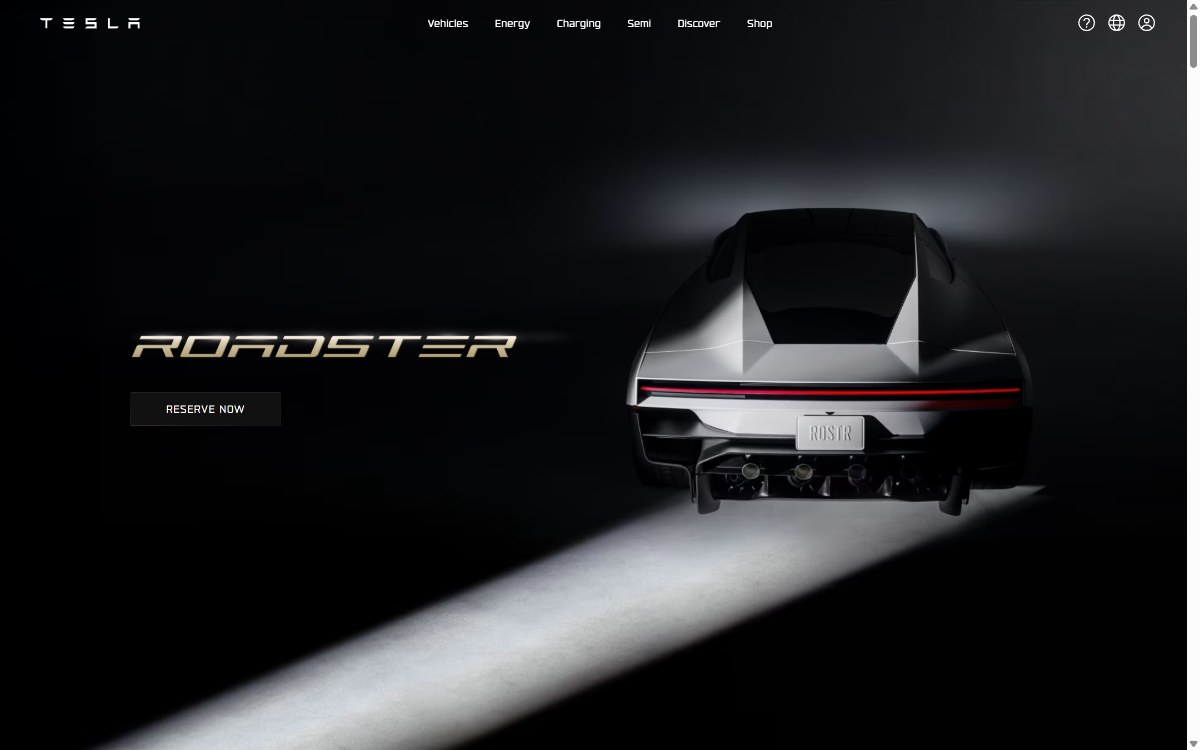
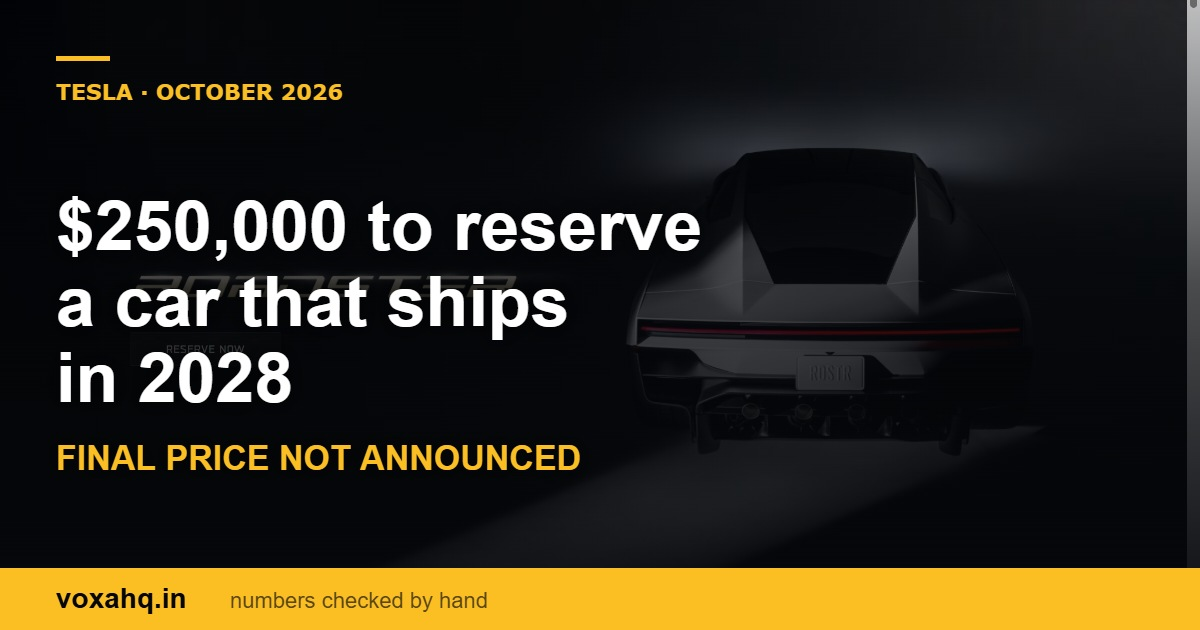
News: longer posts and designed cover images

diff --git a/news/microsoft-transcription-price-cut.html b/news/microsoft-transcription-price-cut.html
@@ -1,96 +1,90 @@
 <!DOCTYPE html>
-<html lang="en">
-<head>
+<html lang="en"><head>
 <meta charset="utf-8">
-<meta name="p:domain_verify" content="2326c45e695d1e2779fd2dcb5c547ad3"/>
-<style>html{background:#08090a}body{background:#08090a;color:#f4f4f1;margin:0;font-family:system-ui,-apple-system,'Segoe UI',Roboto,Arial,sans-serif}.loader,.grain,.cursor-dot,.cursor-ring{display:none!important}.page{opacity:1!important}</style>
 <meta name="viewport" content="width=device-width,initial-scale=1">
+<meta name="p:domain_verify" content="2326c45e695d1e2779fd2dcb5c547ad3"/>
 <meta name="google-site-verification" content="iqkJi4R8vUH9mXFH8NmXFpLjehdxMaZZ2Iw6jM2A83Y" />
-<link rel="icon" type="image/svg+xml" href="/favicon.svg">
-<link rel="alternate icon" href="/favicon-32.png">
-<title>Microsoft cut cloud transcription to 10 cents an hour: the catch</title>
-<meta name="description" content="Microsoft prices batch transcription at $0.10 per audio hour and streaming at $0.54 until 31 December 2026. Both are introductory, and streaming costs 5.4 times the batch rate.">
+<title>Microsoft Cut Cloud Transcription to 10 Cents an Hour: The Catch</title>
+<meta name="description" content="Microsoft prices batch transcription at $0.10 per audio hour and streaming at $0.54 until 31 December 2026. Both are introductory, streaming costs 5.4 times the batch rate, and neither has a published replacement price.">
 <link rel="canonical" href="https://voxahq.in/news/microsoft-transcription-price-cut">
 <meta name="robots" content="index, follow, max-image-preview:large, max-snippet:-1">
-<meta name="keywords" content="microsoft transcription pricing, mai-transcribe-2 price, speech to text cost per hour">
-<meta name="author" content="VOXA">
-<meta name="twitter:card" content="summary_large_image">
-<meta name="twitter:image" content="https://voxahq.in/images/news/microsoft-transcribe.jpg">
-<meta property="og:title" content="Microsoft cut cloud transcription to 10 cents an hour: the catch">
-<meta property="og:description" content="Microsoft prices batch transcription at $0.10 per audio hour and streaming at $0.54 until 31 December 2026. Both are introductory, and streaming costs 5.4 times the batch rate.">
+<meta name="keywords" content="microsoft transcription pricing, mai-transcribe-2 price, speech to text cost per hour, cheapest transcription api">
+<meta property="og:title" content="Microsoft Cut Cloud Transcription to 10 Cents an Hour: The Catch">
+<meta property="og:description" content="Microsoft prices batch transcription at $0.10 per audio hour and streaming at $0.54 until 31 December 2026. Both are introductory, streaming costs 5.4 times the batch rate, and neither has a published replacement price.">
 <meta property="og:url" content="https://voxahq.in/news/microsoft-transcription-price-cut">
-<meta property="og:site_name" content="VOXA">
 <meta property="og:type" content="article">
 <meta property="og:image" content="https://voxahq.in/images/news/microsoft-transcribe.jpg">
-<meta property="og:image:width" content="1200">
-<meta property="og:image:height" content="630">
+<meta name="twitter:card" content="summary_large_image">
+<link rel="icon" type="image/svg+xml" href="/favicon.svg">
 <link rel="stylesheet" href="/css/style.css?v=20261020">
-<script type="application/ld+json">{"@context":"https://schema.org","@type":"NewsArticle","headline":"Microsoft cut cloud transcription to 10 cents an hour: the catch","description":"Microsoft prices batch transcription at $0.10 per audio hour and streaming at $0.54 until 31 December 2026. Both are introductory, and streaming costs 5.4 times the batch rate.","datePublished":"2026-10-20","dateModified":"2026-10-20","author":{"@type":"Organization","name":"VOXA"},"publisher":{"@type":"Organization","name":"VOXA"},"mainEntityOfPage":"https://voxahq.in/news/microsoft-transcription-price-cut","image":"https://voxahq.in/images/news/microsoft-transcribe.jpg"}</script>
-</head>
-<body class="loading" data-scene="wave">
-<canvas id="gl" aria-hidden="true"></canvas><div class="veil" aria-hidden="true"></div><div class="grain" aria-hidden="true"></div><div class="progress" id="progress" aria-hidden="true"></div>
+<script type="application/ld+json">{"@context":"https://schema.org","@type":"NewsArticle","headline":"Microsoft cut cloud transcription to 10 cents an hour, and the catch is in the small print","description":"Microsoft prices batch transcription at $0.10 per audio hour and streaming at $0.54 until 31 December 2026. Both are introductory, streaming costs 5.4 times the batch rate, and neither has a published replacement price.","datePublished":"2026-10-20","dateModified":"2026-10-20","author":{"@type":"Organization","name":"VOXA"},"publisher":{"@type":"Organization","name":"VOXA"},"mainEntityOfPage":"https://voxahq.in/news/microsoft-transcription-price-cut","image":"https://voxahq.in/images/news/microsoft-transcribe.jpg"}</script>
+<script type="application/ld+json">{"@context":"https://schema.org","@type":"FAQPage","mainEntity":[{"@type":"Question","name":"How much does Microsoft transcription cost?","acceptedAnswer":{"@type":"Answer","text":"Batch transcription (MAI-Transcribe-2) is $0.10 per audio hour and streaming (MAI-Transcribe-2-Streaming) is $0.54, both introductory through 31 December 2026."}},{"@type":"Question","name":"Is Microsoft the cheapest transcription API?","acceptedAnswer":{"@type":"Answer","text":"No. xAI lists streaming at $0.20 per hour and Meta at $0.18. Local Whisper costs nothing per hour."}},{"@type":"Question","name":"What happens after 31 December 2026?","acceptedAnswer":{"@type":"Answer","text":"Microsoft has not published a standard rate, so both figures should be treated as provisional."}}]}</script>
+</head><body class="loading" data-scene="wave">
+<canvas id="gl" aria-hidden="true"></canvas><div class="veil" aria-hidden="true"></div><div class="grain" aria-hidden="true"></div>
 <header class="nav" id="nav">
-  <a class="brand" href="/" data-cursor><svg class="mark" viewBox="0 0 48 48" role="img" aria-label="VOXA"><rect x="1" y="1" width="46" height="46" rx="12" fill="#0b0f10" stroke="#1e2c30"/><path d="M14 15 L24 34" fill="none" stroke="#22d3ee" stroke-width="4.6" stroke-linecap="round"/><path d="M24 34 L34 15" fill="none" stroke="#c8f751" stroke-width="4.6" stroke-linecap="round"/><circle cx="14" cy="15" r="3.2" fill="#22d3ee"/><circle cx="34" cy="15" r="3.2" fill="#c8f751"/></svg>VOXA</a>
-  <nav class="nav__links" id="navLinks">
-    <a href="/">Home</a><a href="/guides">Guides</a><a href="/notes">Notes</a><a href="/news">News</a><a href="/about">About Us</a><a href="/contact">Contact Us</a>
-  </nav>
-  <a class="btn" href="/contact" data-magnet><span data-cursor>Contact</span></a>
-  <button class="burger" id="burger" aria-label="Menu"><i></i><i></i></button>
+  <a class="brand" href="/">VOXA</a>
+  <nav class="nav__links" id="navLinks"><a href="/">Home</a><a href="/guides">Guides</a><a href="/notes">Notes</a><a href="/news">News</a><a href="/about">About Us</a><a href="/contact">Contact Us</a></nav>
+  <a class="btn" href="/contact"><span>Contact</span></a>
 </header>
-<div class="page">
-<main>
-  <section class="page-head wrap">
-    <span class="mono">News / AI costs</span>
-    <h1>Microsoft cut cloud transcription to 10 cents an hour, and the catch is in the small print</h1>
+<div class="page"><main>
+  <section class="page-head wrap"><span class="mono">News / AI costs</span><h1>Microsoft cut cloud transcription to 10 cents an hour, and the catch is in the small print</h1>
     <div class="crumbs mono"><a href="/">Home</a><span>/</span><a href="/news">News</a><span>/</span><span>Microsoft transcription pricing</span></div>
   </section>
-  <section class="wrap" style="padding-top:0">
-    <div class="panel">
-      <p class="byline mono">By the VOXA team &middot; prices from Microsoft’s own model pages</p>
-      <p class="meta-line mono"><span>October 20, 2026</span><span>2 min read</span><span>Numbers checked by hand</span></p>
-      <div class="quick">
-        <h2>The short version</h2>
-        <p>Microsoft’s batch transcription model runs at $0.10 per hour of audio until 31 December. The streaming version is $0.54 per hour, or 5.4 times the batch rate, for half a point of accuracy. Both are introductory prices with no announced successor.</p>
-        <div class="row"><div><span class="big">$0.10</span><span class="lbl">Batch, per audio hour</span></div><div><span class="big">$0.54</span><span class="lbl">Streaming, per audio hour</span></div><div><span class="big">5.4x</span><span class="lbl">Streaming premium</span></div></div>
-      </div>
-      <figure class="guide-figure">
-        <img src="/images/news/microsoft-transcribe.jpg" alt="Microsoft AI announcement page for MAI-Transcribe-2-Streaming, October 2026" width="1200" height="675" loading="eager" decoding="async">
-        <figcaption class="mono">Microsoft’s announcement page, captured 20 October 2026.</figcaption>
-      </figure>
+  <section class="wrap" style="padding-top:0"><div class="panel">
+    <p class="byline mono">By the VOXA team &middot; prices from Microsoft’s own model pages</p>
+    <p class="meta-line mono"><span>20 October 2026</span><span>6 min read</span><span>Numbers checked by hand</span></p>
+    <div class="quick"><h2>The short version</h2><p>Microsoft now sells two versions of the same speech model. Batch transcription costs $0.10 per hour of audio. The streaming version costs $0.54, which is 5.4 times more for half a point of worse accuracy. Both prices are introductory and expire on 31 December 2026.</p>
+      <div class="row"><div><span class="big">$0.10</span><span class="lbl">Batch, per audio hour</span></div><div><span class="big">$0.54</span><span class="lbl">Streaming, per audio hour</span></div><div><span class="big">5.4x</span><span class="lbl">Streaming premium</span></div></div></div>
+    <figure class="guide-figure"><img src="/images/news/microsoft-transcribe.jpg" alt="Microsoft MAI-Transcribe-2-Streaming announcement, October 2026" width="1200" height="630" loading="eager" decoding="async">
+      <figcaption class="mono">Microsoft shipped both models on 1 October 2026. Source: microsoft.ai.</figcaption></figure>
+    <h2>What Microsoft changed</h2>
+    <p>On 1 October 2026, Microsoft AI released two speech-to-text models that share the same architecture but not the same bill. MAI-Transcribe-2 processes a finished audio file and returns a transcript. MAI-Transcribe-2-Streaming listens to live audio and returns partial text while the person is still talking.</p>
+    <p>The batch model scores 2.0% word error rate. The streaming model claims 2.5% and finalises each utterance about 0.13 seconds after the speaker stops. Both cover 60 languages with automatic language detection.</p>
 
-      <h2>What changed</h2>
-      <p>Microsoft shipped two versions of the same speech model. The batch version, MAI-Transcribe-2, costs $0.10 per hour of audio at a 2.0% word error rate. The streaming version, MAI-Transcribe-2-Streaming, costs $0.54 per hour at a claimed 2.5% error rate and finalises a transcript about 0.13 seconds after speech ends.</p>
-      <table>
-        <thead><tr><th>Model</th><th>Price</th><th>What you get</th></tr></thead>
-        <tbody>
-          <tr><td>MAI-Transcribe-2 (batch)</td><td><span class="price">$0.10<small>per audio hour</small></span></td><td>2.0% WER, file in, transcript out</td></tr>
-          <tr><td>MAI-Transcribe-2-Streaming</td><td><span class="price">$0.54<small>per audio hour</small></span></td><td>2.5% WER, live partial transcripts</td></tr>
-          <tr><td>MAI-Voice-2.1</td><td><span class="price">$22<small>per 1M characters</small></span></td><td>Text to speech, 23 languages</td></tr>
-          <tr><td>MAI-Voice-2.1-Flash</td><td><span class="price">$15<small>per 1M characters</small></span></td><td>Faster, cheaper TTS tier</td></tr>
-        </tbody>
-      </table>
+    <h2>The numbers</h2>
+    <table><thead><tr><th>Model</th><th>Price</th><th>What you get</th></tr></thead><tbody>
+    <tr><td>MAI-Transcribe-2 (batch)</td><td><span class="price">$0.10<small>per audio hour</small></span></td><td>2.0% WER, file in, transcript out</td></tr>
+    <tr><td>MAI-Transcribe-2-Streaming</td><td><span class="price">$0.54<small>per audio hour</small></span></td><td>2.5% WER, live partial results</td></tr>
+    <tr><td>MAI-Voice-2.1</td><td><span class="price">$22<small>per 1M characters</small></span></td><td>Text to speech, 23 languages</td></tr>
+    <tr><td>MAI-Voice-2.1-Flash</td><td><span class="price">$15<small>per 1M characters</small></span></td><td>Lower latency, volume tier</td></tr>
+    </tbody></table>
+    <p>At $0.10 an hour, a thousand hours of audio costs $100. At $0.54, the same thousand hours costs $540, for the same words with slightly more errors. The only thing the premium buys is time: the transcript arrives while the call is happening, not after.</p>
 
-      <h2>The catch nobody prints</h2>
-      <p>Three things, all in the small print. First, both rates are introductory and run out on 31 December 2026, with no replacement price published. Second, streaming costs 5.4 times the batch rate for slightly worse accuracy, which is the opposite of how volume pricing usually works. Third, this is a public preview with no service level agreement.</p>
-      <p>It is also not the cheapest option on the market. xAI lists streaming transcription at $0.20 an hour and Meta at $0.18, so Microsoft is competing on accuracy and language coverage rather than on price.</p>
+    <h2>How it compares</h2>
+    <table><thead><tr><th>Option</th><th>Price per audio hour</th><th>Notes</th></tr></thead><tbody>
+    <tr><td>MAI-Transcribe-2 (batch)</td><td><span class="price">$0.10<small>introductory</small></span></td><td>Ends 31 Dec 2026</td></tr>
+    <tr><td>MAI-Transcribe-2-Streaming</td><td><span class="price">$0.54<small>introductory</small></span></td><td>Ends 31 Dec 2026</td></tr>
+    <tr><td>Meta streaming</td><td><span class="price">$0.18<small>per hour</small></span></td><td>Cheaper, lower accuracy tier</td></tr>
+    <tr><td>xAI streaming</td><td><span class="price">$0.20<small>per hour</small></span></td><td>Cheaper, lower accuracy tier</td></tr>
+    <tr><td>Local Whisper</td><td><span class="price">$0<small>per hour</small></span></td><td>You pay in hardware and time</td></tr>
+    </tbody></table>
+    <p>Microsoft is not the cheapest, despite the headline. It is the most accurate on the streaming leaderboard, and that accuracy is what you are buying at $0.54.</p>
 
-      <h2>What it means if you already transcribe</h2>
-      <p>If you were paying around $12 an hour for cloud transcription, this is a genuine 20 to 100 times cut, and it makes the paid tier competitive with running Whisper on your own machine. If you only transcribe a few hours a month, local is still cheaper: it costs nothing per hour and you already own the computer. Our full comparison is in <a href="/guides/local-whisper-vs-cloud-transcription">local Whisper vs cloud transcription</a>.</p>
+    <h2>Three catches</h2>
+    <p><strong>One.</strong> Both rates are introductory and end on 31 December 2026. No replacement price has been published, so any budget built on $0.10 has a hole in it after January.</p>
+    <p><strong>Two.</strong> Streaming costs 5.4 times the batch rate. That is the opposite of how volume pricing usually works, and it means the decision is about latency, not about cost per minute.</p>
+    <p><strong>Three.</strong> This is a public preview with no service level agreement. For a call centre routing live calls, an SLA is not optional.</p>
 
-      <h2>Source</h2>
-      <p>Microsoft AI model pages and announcement posts (microsoft.ai), read 20 October 2026. Competitor streaming prices from the Artificial Analysis comparison published 2 October 2026.</p>
-      <p><a href="/guides/local-whisper-vs-cloud-transcription">Read next: the real cost per hour of transcription</a></p>
-    </div>
-  </section>
+    <h2>What to do if you already transcribe</h2>
+    <p>If you pay a per-minute vendor, run the maths on your last month. A team processing 200 hours a month was likely paying between $1,200 and $2,400 at older rates. On batch pricing that becomes $20. The saving is real, and it is large enough to justify a migration test.</p>
+    <p>If you process a few hours a month, nothing changes. Local Whisper is still free per hour, and the setup cost is a laptop you already own. The full comparison, including the time cost, is in our guide to <a href="/guides/local-whisper-vs-cloud-transcription">local Whisper versus cloud transcription</a>.</p>
+    <p>If you need live text during a call, the question is not price. It is whether a 2.5% error rate is acceptable for what happens downstream: routing, summarising, or writing to a customer record.</p>
+
+    <h2>Questions people ask</h2>
+    <h3>Is $0.10 per hour permanent?</h3>
+    <p>No. Microsoft lists it as a limited-time price through 31 December 2026, with no standard rate published yet.</p>
+    <h3>Why is streaming more expensive?</h3>
+    <p>Streaming holds a connection open and returns partial results continuously, which uses more compute per minute of audio than processing a finished file once.</p>
+    <h3>Should I switch from Whisper?</h3>
+    <p>Only if you need speed or managed infrastructure. For batch work on a machine you own, local Whisper still costs nothing per hour.</p>
+    <h2>Sources</h2><p>Microsoft AI model pages and announcement posts (microsoft.ai, 1 October 2026); Azure Speech pricing page (read 20 October 2026); Artificial Analysis streaming comparison published 2 October 2026.</p>
+    <p class="mono" style="color:var(--muted)">Read from the primary source on 20 October 2026. Prices and terms change, so check before you commit.</p>
+    <p><a href="/guides/local-whisper-vs-cloud-transcription">Read next: the real cost per hour of transcription</a></p>
+  </div></section>
 </main>
 <footer><div class="wrap"><div class="foot">
-      <div><a class="brand" href="/">VOXA</a><p style="color:var(--muted);max-width:34ch;margin-top:14px">An independent, plainly written guide to AI tools and automation software. No affiliate links, no sponsored rankings.</p></div>
-      <div><h5 class="mono">Pages</h5><ul><li><a href="/">Home</a></li><li><a href="/guides">Guides</a></li><li><a href="/notes">Notes</a></li><li><a href="/news">News</a></li><li><a href="/about">About Us</a></li><li><a href="/contact">Contact Us</a></li></ul></div>
-      <div><h5 class="mono">Legal</h5><ul><li><a href="/privacy-policy">Privacy Policy</a></li><li><a href="/terms">Terms &amp; Conditions</a></li><li><a href="/disclaimer">Disclaimer</a></li><li><a href="/cookie-policy">Cookie Policy</a></li><li><a href="/how-we-test">How we check</a></li><li><a href="/editorial-policy">Editorial policy</a></li></ul></div>
-      <div><h5 class="mono">Contact</h5><ul><li><a href="mailto:voxa.hq1@gmail.com">voxa.hq1@gmail.com</a></li><li><a href="/contact">Contact form</a></li></ul></div>
-    </div><div class="foot__bottom mono"><span>&copy; <span id="year">2026</span> VOXA</span><span id="clock">--:--:--</span><span>Independent guide &middot; no sponsored rankings</span></div></div></footer>
-</div>
-<script src="/js/main.js"></script>
-<script src="/js/lazy3d.js" data-scene-src="/js/scene.js"></script>
-</body>
-</html>
+  <div><a class="brand" href="/">VOXA</a><p style="color:var(--muted);max-width:34ch;margin-top:14px">Independent AI tools and automation notes. Real prices, checked by hand. No affiliate links.</p></div>
+  <div><h5 class="mono">Pages</h5><ul><li><a href="/">Home</a></li><li><a href="/guides">Guides</a></li><li><a href="/notes">Notes</a></li><li><a href="/news">News</a></li><li><a href="/contact">Contact Us</a></li></ul></div>
+  <div><h5 class="mono">Legal</h5><ul><li><a href="/privacy-policy">Privacy Policy</a></li><li><a href="/terms">Terms</a></li><li><a href="/disclaimer">Disclaimer</a></li></ul></div>
+  <div><h5 class="mono">Contact</h5><ul><li><a href="mailto:voxa.hq1@gmail.com">voxa.hq1@gmail.com</a></li></ul></div>
+</div></div></footer></div></body></html>

diff --git a/news/tesla-roadster-250000-reservation.html b/news/tesla-roadster-250000-reservation.html
@@ -1,94 +1,84 @@
 <!DOCTYPE html>
-<html lang="en">
-<head>
+<html lang="en"><head>
 <meta charset="utf-8">
-<meta name="p:domain_verify" content="2326c45e695d1e2779fd2dcb5c547ad3"/>
-<style>html{background:#08090a}body{background:#08090a;color:#f4f4f1;margin:0;font-family:system-ui,-apple-system,'Segoe UI',Roboto,Arial,sans-serif}.loader,.grain,.cursor-dot,.cursor-ring{display:none!important}.page{opacity:1!important}</style>
 <meta name="viewport" content="width=device-width,initial-scale=1">
+<meta name="p:domain_verify" content="2326c45e695d1e2779fd2dcb5c547ad3"/>
 <meta name="google-site-verification" content="iqkJi4R8vUH9mXFH8NmXFpLjehdxMaZZ2Iw6jM2A83Y" />
-<link rel="icon" type="image/svg+xml" href="/favicon.svg">
-<link rel="alternate icon" href="/favicon-32.png">
-<title>Tesla's Roadster takes $250,000 to reserve, and still has no price</title>
-<meta name="description" content="Tesla unveiled the Roadster on 15 October. A Performance trim reserves for $50,000 and Thrust for $250,000, but the final price has not been published and production starts in 2028.">
+<title>Tesla's Roadster Takes $250,000 to Reserve, and Still Has No Price</title>
+<meta name="description" content="Tesla unveiled the Roadster on 15 October 2026. Performance reserves for $50,000 and Thrust for $250,000, paid in two stages, but the final price is unpublished and production starts in 2028.">
 <link rel="canonical" href="https://voxahq.in/news/tesla-roadster-250000-reservation">
 <meta name="robots" content="index, follow, max-image-preview:large, max-snippet:-1">
-<meta name="keywords" content="tesla roadster price, tesla roadster reservation, roadster 2028, tesla deposit">
-<meta name="author" content="VOXA">
-<meta name="twitter:card" content="summary_large_image">
-<meta name="twitter:image" content="https://voxahq.in/images/news/tesla-elon.jpg">
-<meta property="og:title" content="Tesla's Roadster takes $250,000 to reserve, and still has no price">
-<meta property="og:description" content="Tesla unveiled the Roadster on 15 October. A Performance trim reserves for $50,000 and Thrust for $250,000, but the final price has not been published and production starts in 2028.">
+<meta name="keywords" content="tesla roadster price, tesla roadster reservation, roadster 2028, tesla deposit refundable">
+<meta property="og:title" content="Tesla's Roadster Takes $250,000 to Reserve, and Still Has No Price">
+<meta property="og:description" content="Tesla unveiled the Roadster on 15 October 2026. Performance reserves for $50,000 and Thrust for $250,000, paid in two stages, but the final price is unpublished and production starts in 2028.">
 <meta property="og:url" content="https://voxahq.in/news/tesla-roadster-250000-reservation">
-<meta property="og:site_name" content="VOXA">
 <meta property="og:type" content="article">
-<meta property="og:image" content="https://voxahq.in/images/news/tesla-elon.jpg">
-<meta property="og:image:width" content="1200">
-<meta property="og:image:height" content="630">
+<meta property="og:image" content="https://voxahq.in/images/news/tesla-car.jpg">
+<meta name="twitter:card" content="summary_large_image">
+<link rel="icon" type="image/svg+xml" href="/favicon.svg">
 <link rel="stylesheet" href="/css/style.css?v=20261020">
-<script type="application/ld+json">{"@context":"https://schema.org","@type":"NewsArticle","headline":"Tesla's Roadster takes $250,000 to reserve, and still has no price","description":"Tesla unveiled the Roadster on 15 October. A Performance trim reserves for $50,000 and Thrust for $250,000, but the final price has not been published and production starts in 2028.","datePublished":"2026-10-20","dateModified":"2026-10-20","author":{"@type":"Organization","name":"VOXA"},"publisher":{"@type":"Organization","name":"VOXA"},"mainEntityOfPage":"https://voxahq.in/news/tesla-roadster-250000-reservation","image":"https://voxahq.in/images/news/tesla-elon.jpg"}</script>
-</head>
-<body class="loading" data-scene="wave">
-<canvas id="gl" aria-hidden="true"></canvas><div class="veil" aria-hidden="true"></div><div class="grain" aria-hidden="true"></div><div class="progress" id="progress" aria-hidden="true"></div>
+<script type="application/ld+json">{"@context":"https://schema.org","@type":"NewsArticle","headline":"$250,000 to reserve a car that ships in 2028, and nobody has announced the price","description":"Tesla unveiled the Roadster on 15 October 2026. Performance reserves for $50,000 and Thrust for $250,000, paid in two stages, but the final price is unpublished and production starts in 2028.","datePublished":"2026-10-20","dateModified":"2026-10-20","author":{"@type":"Organization","name":"VOXA"},"publisher":{"@type":"Organization","name":"VOXA"},"mainEntityOfPage":"https://voxahq.in/news/tesla-roadster-250000-reservation","image":"https://voxahq.in/images/news/tesla-car.jpg"}</script>
+<script type="application/ld+json">{"@context":"https://schema.org","@type":"FAQPage","mainEntity":[{"@type":"Question","name":"Is the Tesla Roadster deposit refundable?","acceptedAnswer":{"@type":"Answer","text":"The first $5,000 is fully refundable. The remaining balance is due within 10 days and the reservation can be cancelled if it is not paid."}},{"@type":"Question","name":"How much will the Tesla Roadster cost?","acceptedAnswer":{"@type":"Answer","text":"Tesla has not published a price. Analysts expect more than $250,000."}},{"@type":"Question","name":"When does the Tesla Roadster go into production?","acceptedAnswer":{"@type":"Answer","text":"Tesla says 2028."}}]}</script>
+</head><body class="loading" data-scene="wave">
+<canvas id="gl" aria-hidden="true"></canvas><div class="veil" aria-hidden="true"></div><div class="grain" aria-hidden="true"></div>
 <header class="nav" id="nav">
-  <a class="brand" href="/" data-cursor><svg class="mark" viewBox="0 0 48 48" role="img" aria-label="VOXA"><rect x="1" y="1" width="46" height="46" rx="12" fill="#0b0f10" stroke="#1e2c30"/><path d="M14 15 L24 34" fill="none" stroke="#22d3ee" stroke-width="4.6" stroke-linecap="round"/><path d="M24 34 L34 15" fill="none" stroke="#c8f751" stroke-width="4.6" stroke-linecap="round"/><circle cx="14" cy="15" r="3.2" fill="#22d3ee"/><circle cx="34" cy="15" r="3.2" fill="#c8f751"/></svg>VOXA</a>
-  <nav class="nav__links" id="navLinks">
-    <a href="/">Home</a><a href="/guides">Guides</a><a href="/notes">Notes</a><a href="/news">News</a><a href="/about">About Us</a><a href="/contact">Contact Us</a>
-  </nav>
-  <a class="btn" href="/contact" data-magnet><span data-cursor>Contact</span></a>
-  <button class="burger" id="burger" aria-label="Menu"><i></i><i></i></button>
+  <a class="brand" href="/">VOXA</a>
+  <nav class="nav__links" id="navLinks"><a href="/">Home</a><a href="/guides">Guides</a><a href="/notes">Notes</a><a href="/news">News</a><a href="/about">About Us</a><a href="/contact">Contact Us</a></nav>
+  <a class="btn" href="/contact"><span>Contact</span></a>
 </header>
-<div class="page">
-<main>
-  <section class="page-head wrap">
-    <span class="mono">News / Prices</span>
-    <h1>$250,000 to reserve a car that ships in 2028, and the price is still not announced</h1>
+<div class="page"><main>
+  <section class="page-head wrap"><span class="mono">News / Prices</span><h1>$250,000 to reserve a car that ships in 2028, and nobody has announced the price</h1>
     <div class="crumbs mono"><a href="/">Home</a><span>/</span><a href="/news">News</a><span>/</span><span>Tesla Roadster reservation</span></div>
   </section>
-  <section class="wrap" style="padding-top:0">
-    <div class="panel">
-      <p class="byline mono">By the VOXA team &middot; prices from Tesla’s own reservation page</p>
-      <p class="meta-line mono"><span>October 20, 2026</span><span>2 min read</span><span>Numbers checked by hand</span></p>
-      <div class="quick">
-        <h2>The short version</h2>
-        <p>You can put a deposit down today for a car that goes into production in 2028, and nobody has told you what it will cost. $5,000 today reserves Performance, and $45,000 follows within 10 days. Thrust is $5,000 plus $245,000.</p>
-        <div class="row"><div><span class="big">$50,000</span><span class="lbl">Performance reservation</span></div><div><span class="big">$250,000</span><span class="lbl">Thrust reservation</span></div><div><span class="big">2028</span><span class="lbl">Production start</span></div></div>
-      </div>
-      <figure class="guide-figure">
-        <img src="/images/news/tesla-elon.jpg" alt="Elon Musk, who announced the new Tesla Roadster in October 2026" width="1200" height="675" loading="eager" decoding="async">
-        <figcaption class="mono">Elon Musk announced the car on X on 18 October. Photo: Wikimedia Commons.</figcaption>
-      </figure>
-      <h2>What was announced</h2>
-      <p>Tesla unveiled the second-generation Roadster at an event near Waco, Texas, on 15 October 2026. The car uses ten cold-gas thrusters and high-pressure air tanks, and the demo included a mid-air barrel roll before landing on its wheels. Tesla’s own post claims 0-60 mph in 0.81 seconds.</p>
-      <table>
-        <thead><tr><th>Trim</th><th>Reservation</th><th>Status</th></tr></thead>
-        <tbody>
-          <tr><td>Performance</td><td><span class="price">$50,000<small>$5,000 today, $45,000 in 10 days</small></span></td><td>Open</td></tr>
-          <tr><td>Thrust</td><td><span class="price">$250,000<small>$5,000 today, $245,000 in 10 days</small></span></td><td>Open, limited</td></tr>
-          <tr><td>Rocket</td><td>Invite only</td><td>Closed to the public</td></tr>
-        </tbody>
-      </table>
+  <section class="wrap" style="padding-top:0"><div class="panel">
+    <p class="byline mono">By the VOXA team &middot; prices from Tesla’s own reservation page</p>
+    <p class="meta-line mono"><span>20 October 2026</span><span>6 min read</span><span>Numbers checked by hand</span></p>
+    <div class="quick"><h2>The short version</h2><p>Tesla is taking deposits now for a car that enters production in 2028 without a published price. Performance costs $50,000 to reserve: $5,000 today and $45,000 within ten days. Thrust costs $250,000, split $5,000 and $245,000. The Rocket trim is invite only.</p>
+      <div class="row"><div><span class="big">$50,000</span><span class="lbl">Performance reservation</span></div><div><span class="big">$250,000</span><span class="lbl">Thrust reservation</span></div><div><span class="big">2028</span><span class="lbl">Production start</span></div></div></div>
+    <figure class="guide-figure"><img src="/images/news/tesla-car.jpg" alt="Tesla Roadster unveiled in October 2026" width="1200" height="630" loading="eager" decoding="async">
+      <figcaption class="mono">Tesla unveiled the second-generation Roadster on 15 October 2026. Source: tesla.com/roadster.</figcaption></figure>
+    <h2>What was announced</h2>
+    <p>Tesla unveiled the second-generation Roadster at an event near Waco, Texas, on 15 October 2026. The car uses ten cold-gas thrusters and high-pressure air tanks. In the stage demo it drove up a ramp, performed a barrel roll in the air and landed on its wheels.</p>
+    <p>Tesla’s own post claims 0-60 mph in 0.81 seconds. The company lists 300 miles of range and a top speed above 230 mph across all three trims. Production is scheduled for 2028.</p>
 
-      <h2>The catch</h2>
-      <p>A reservation is not a price. Tesla has not published the final cost of the car, and analysts quoted by the LA Times expect more than $250,000. The deposit is fully refundable only in the first $5,000 stage; the second payment is subject to cancellation if it is not completed within 10 days.</p>
-      <p>The other number that matters is the date. Production is scheduled for 2028, and Musk has delayed this car repeatedly since 2017.</p>
+    <h2>What the deposit actually costs</h2>
+    <table><thead><tr><th>Trim</th><th>Total reservation</th><th>Payment schedule</th><th>Availability</th></tr></thead><tbody>
+    <tr><td>Performance</td><td><span class="price">$50,000<small>road ready</small></span></td><td>$5,000 today, $45,000 within 10 days</td><td>Open</td></tr>
+    <tr><td>Thrust</td><td><span class="price">$250,000<small>race ready</small></span></td><td>$5,000 today, $245,000 within 10 days</td><td>Open, limited</td></tr>
+    <tr><td>Rocket</td><td>No public price</td><td>Invite only</td><td>Closed</td></tr>
+    </tbody></table>
+    <p>The first $5,000 is fully refundable. The second payment is not: Tesla’s terms say the reservation can be cancelled if the balance is not completed within ten days. In practice, the deposit is a $50,000 or $250,000 commitment to a car with no published price.</p>
 
-      <h2>Why it matters for AI and automation</h2>
-      <p>Musk’s own framing is software, not hardware: he said buyers will be able to ask the car to perform the tricks autonomously. That is an autonomy claim, and autonomy claims are what you should price separately. It is the same pattern we cover in <a href="/guides/ai-agent-failures-guardrails">AI agents that promise more than they deliver</a>.</p>
-      <h2>Source</h2>
-      <p>Tesla reservation page (tesla.com/roadster/reserve), read 20 October 2026; Tesla’s post on X, 16 October 2026; LA Times reporting, 17 October 2026.</p>
-      <p class="mono" style="color:var(--muted)">Numbers read from the primary source on 20 October 2026. Vendors change prices and terms, so check before you commit.</p>
-      <p><a href="/guides/ai-tool-pricing-traps">Read next: how a $20 tool becomes a $500 bill</a></p>
-    </div>
-  </section>
+    <h2>The number nobody has</h2>
+    <p>Tesla has not announced what the car will cost. Analysts quoted by the Los Angeles Times expect more than $250,000, which would make the Thrust reservation alone equal to the entire purchase price of most luxury cars.</p>
+    <p>That gap, between a deposit and a price, is the part worth watching. A reservation queue tells Tesla how much demand exists at a given deposit level. It does not tell a buyer what they will pay in 2028.</p>
+
+    <h2>Why 2028 matters</h2>
+    <p>Musk first promised the thrusters package in 2018. The reveal was delayed in 2020, 2021, 2023 and 2024, and slipped again in early October 2026 because of weather. A two-year wait is the optimistic reading of Tesla’s own history on this car.</p>
+    <p>Money held for two years has a cost. At a 4% annual return, $250,000 held from today to a 2028 delivery gives up roughly $20,000 in interest, on top of the depreciation risk of buying a first-generation vehicle.</p>
+
+    <h2>The claim that matters more than the car</h2>
+    <p>On 17 October, Musk said buyers will be able to ask the Roadster to perform the demo tricks autonomously. That single line repositions the product: the value is the autonomy software, not the thruster hardware.</p>
+    <p>It is the same pattern we track across AI tools, where the capability is promised first and the price is defined later. The guardrail advice in <a href="/guides/ai-agent-failures-guardrails">our AI agent failures guide</a> applies here too: get the commitment in writing before you pay.</p>
+
+    <h2>If you are actually considering a deposit</h2>
+    <p>Three things to check before paying: the refund terms in writing, whether the price is locked at reservation, and what happens to your position if production slips again. Tesla’s page answers the first question partly and the other two not at all.</p>
+
+    <h2>Questions people ask</h2>
+    <h3>Is the Tesla Roadster deposit refundable?</h3>
+    <p>The first $5,000 is listed as fully refundable. The second payment is subject to cancellation if it is not completed within ten days, so read the terms before paying the balance.</p>
+    <h3>How much will the Roadster cost?</h3>
+    <p>Tesla has not said. Analysts quoted by the LA Times expect more than $250,000.</p>
+    <h3>When can you buy one?</h3>
+    <p>Production is scheduled for 2028. The car has been delayed repeatedly since it was first promised in 2017.</p>
+    <h2>Sources</h2><p>Tesla reservation page (tesla.com/roadster/reserve), read 20 October 2026; Tesla’s posts on X, 16 to 18 October 2026; Los Angeles Times reporting, 17 October 2026.</p>
+    <p class="mono" style="color:var(--muted)">Read from the primary source on 20 October 2026. Prices and terms change, so check before you commit.</p>
+    <p><a href="/guides/ai-tool-pricing-traps">Read next: how a $20 tool becomes a $500 bill</a></p>
+  </div></section>
 </main>
 <footer><div class="wrap"><div class="foot">
-      <div><a class="brand" href="/">VOXA</a><p style="color:var(--muted);max-width:34ch;margin-top:14px">An independent, plainly written guide to AI tools and automation software. No affiliate links, no sponsored rankings.</p></div>
-      <div><h5 class="mono">Pages</h5><ul><li><a href="/">Home</a></li><li><a href="/guides">Guides</a></li><li><a href="/notes">Notes</a></li><li><a href="/news">News</a></li><li><a href="/about">About Us</a></li><li><a href="/contact">Contact Us</a></li></ul></div>
-      <div><h5 class="mono">Legal</h5><ul><li><a href="/privacy-policy">Privacy Policy</a></li><li><a href="/terms">Terms &amp; Conditions</a></li><li><a href="/disclaimer">Disclaimer</a></li><li><a href="/cookie-policy">Cookie Policy</a></li><li><a href="/how-we-test">How we check</a></li><li><a href="/editorial-policy">Editorial policy</a></li></ul></div>
-      <div><h5 class="mono">Contact</h5><ul><li><a href="mailto:voxa.hq1@gmail.com">voxa.hq1@gmail.com</a></li><li><a href="/contact">Contact form</a></li></ul></div>
-    </div><div class="foot__bottom mono"><span>&copy; <span id="year">2026</span> VOXA</span><span id="clock">--:--:--</span><span>Independent guide &middot; no sponsored rankings</span></div></div></footer>
-</div>
-<script src="/js/main.js"></script>
-<script src="/js/lazy3d.js" data-scene-src="/js/scene.js"></script>
-</body>
-</html>
+  <div><a class="brand" href="/">VOXA</a><p style="color:var(--muted);max-width:34ch;margin-top:14px">Independent AI tools and automation notes. Real prices, checked by hand. No affiliate links.</p></div>
+  <div><h5 class="mono">Pages</h5><ul><li><a href="/">Home</a></li><li><a href="/guides">Guides</a></li><li><a href="/notes">Notes</a></li><li><a href="/news">News</a></li><li><a href="/contact">Contact Us</a></li></ul></div>
+  <div><h5 class="mono">Legal</h5><ul><li><a href="/privacy-policy">Privacy Policy</a></li><li><a href="/terms">Terms</a></li><li><a href="/disclaimer">Disclaimer</a></li></ul></div>
+  <div><h5 class="mono">Contact</h5><ul><li><a href="mailto:voxa.hq1@gmail.com">voxa.hq1@gmail.com</a></li></ul></div>
+</div></div></footer></div></body></html>
